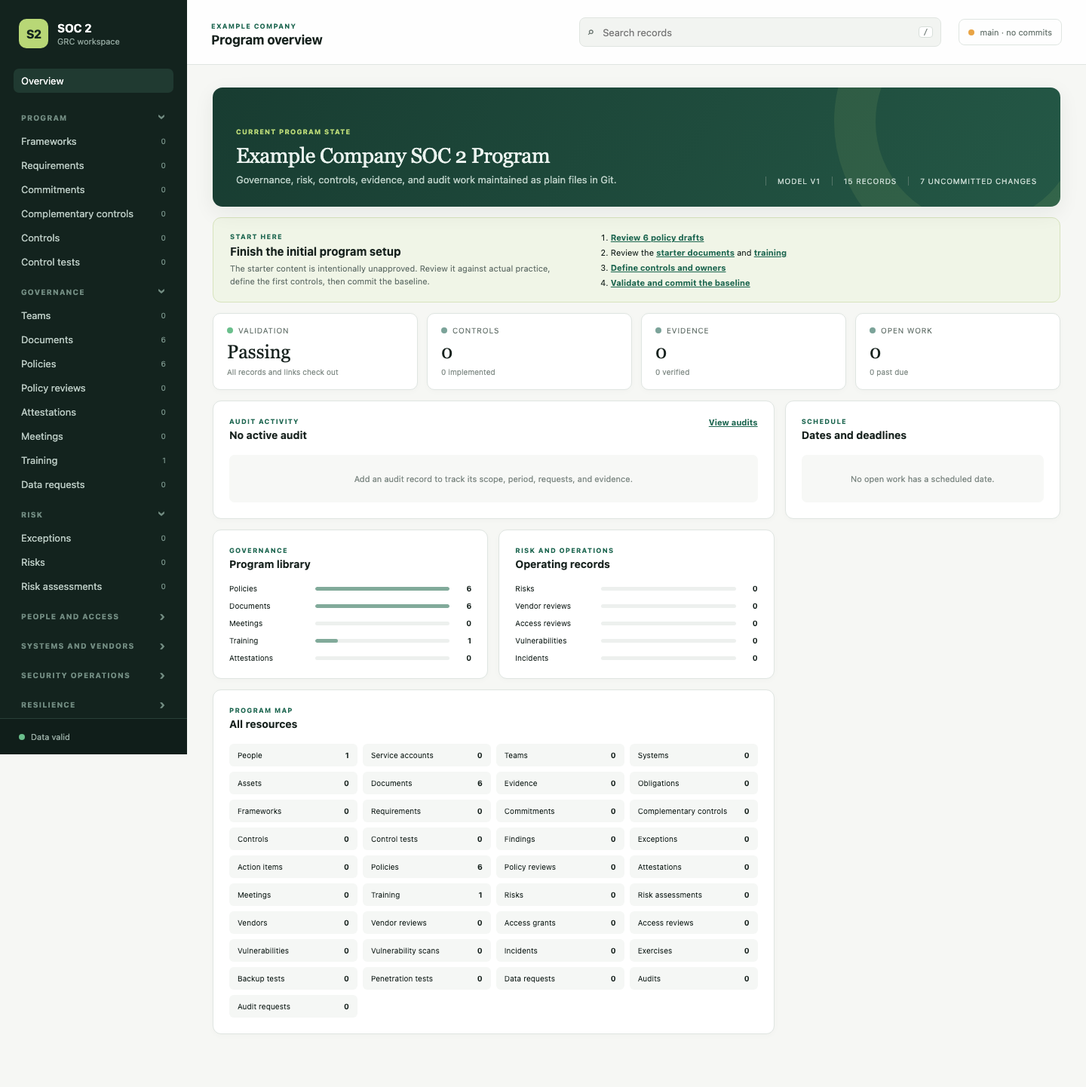
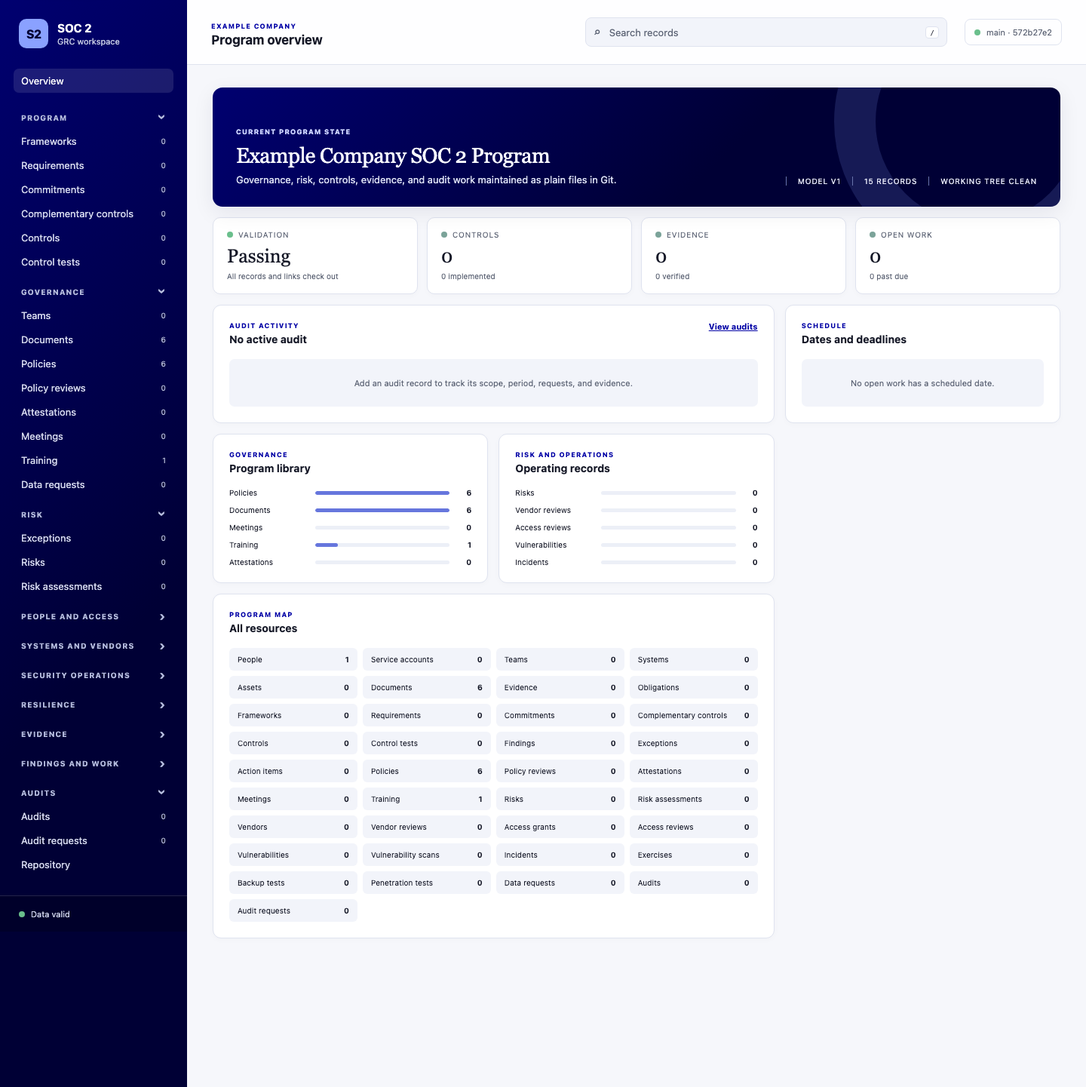
Add blue adaptive color theme

diff --git a/packages/soc2/src/web.js b/packages/soc2/src/web.js
@@ -9,7 +9,7 @@ export function renderIndex(state = null) {
 <head>
   <meta charset="utf-8">
   <meta name="viewport" content="width=device-width,initial-scale=1">
-  <meta name="color-scheme" content="light">
+  <meta name="color-scheme" content="light dark">
   <title>SOC 2 workspace</title>
   <link rel="stylesheet" href="./soc2.css">
 </head>
@@ -618,17 +618,88 @@ function esc(value) { return String(value ?? "").replace(/[&<>"']/g, (character)
 `;
 
 export const APP_STYLES = String.raw`
-:root{--ink:#17221e;--muted:#66736d;--line:#dfe5e1;--paper:#f6f7f4;--panel:#fff;--green:#1d6650;--green-2:#dfece6;--lime:#b8d776;--amber:#ad6b16;--red:#a44236;--sidebar:#13231e;--shadow:0 8px 28px rgba(21,40,33,.07);font-family:Inter,ui-sans-serif,system-ui,-apple-system,BlinkMacSystemFont,"Segoe UI",sans-serif;color:var(--ink);background:var(--paper);font-synthesis:none}
-*{box-sizing:border-box}body{margin:0;min-width:320px;background:var(--paper)}button,input,select,textarea{font:inherit}a{color:inherit}.skip-link{position:fixed;left:1rem;top:-4rem;z-index:100;padding:.7rem 1rem;background:#fff}.skip-link:focus{top:1rem}.loading,.fatal{padding:3rem}.shell{display:grid;grid-template-columns:248px 1fr;min-height:100vh}.sidebar{position:fixed;inset:0 auto 0 0;width:248px;background:var(--sidebar);color:#dce7e2;padding:25px 18px 18px;overflow:auto;z-index:20}.brand{display:flex;align-items:center;gap:12px;text-decoration:none;margin:0 7px 27px}.brand .mark{display:grid;place-items:center;width:39px;height:39px;border-radius:10px;background:var(--lime);color:#15271f;font-weight:800;letter-spacing:-.04em}.brand strong,.brand small{display:block}.brand strong{color:#fff;font-size:15px}.brand small{font-size:11px;color:#91a59d;margin-top:2px}.nav-home,.nav-items a{display:flex;justify-content:space-between;align-items:center;text-decoration:none;border-radius:7px;padding:8px 10px;font-size:13px;color:#b9c9c2}.nav-home{margin-bottom:9px}.nav-home:hover,.nav-items a:hover,.nav-home.current,.nav-items a.current{background:#203a31;color:#fff}.nav-heading{width:100%;border:0;background:none;color:#718b81;text-transform:uppercase;letter-spacing:.11em;font-size:10px;font-weight:750;display:flex;align-items:center;justify-content:space-between;padding:13px 10px 5px;cursor:pointer}.chevron{font-size:18px;transform:rotate(0);transition:.15s}.nav-group.open .chevron{transform:rotate(90deg)}.nav-items{display:none}.nav-group.open .nav-items{display:block}.nav-items small{font-size:10px;color:#769087}.side-foot{position:sticky;bottom:-18px;margin:25px -18px -18px;padding:17px 25px;background:#101e1a;border-top:1px solid #294038;color:#9cb0a8;font-size:11px;display:flex;align-items:center;gap:8px}.status-dot{width:8px;height:8px;border-radius:50%;background:#9aa39f;display:inline-block;flex:0 0 auto}.status-dot.good,.badge.good{background:#6abf8c}.status-dot.warn,.badge.warn{background:#e9a445}.status-dot.bad,.badge.bad{background:#dc6c5d}.status-dot.neutral{background:#7ba399}.workspace{grid-column:2;min-width:0}.topbar{height:86px;background:rgba(255,255,255,.88);backdrop-filter:blur(10px);border-bottom:1px solid var(--line);padding:0 32px;display:flex;align-items:center;gap:23px;position:sticky;top:0;z-index:10}.topbar>div:first-of-type{min-width:190px}.topbar h1{font-size:17px;line-height:1.1;margin:3px 0 0}.eyebrow,.kicker{color:var(--green);text-transform:uppercase;letter-spacing:.12em;font-weight:760;font-size:9px;margin:0}.search{height:39px;max-width:480px;flex:1;margin-left:auto;display:flex;align-items:center;gap:9px;background:#f2f4f1;border:1px solid #e0e5e1;border-radius:8px;padding:0 10px;color:#6f7a75}.search input{border:0;outline:0;background:none;min-width:0;flex:1;font-size:13px}.search kbd{background:#fff;border:1px solid #d8dfda;border-radius:4px;padding:1px 5px;font-size:10px}.repo-chip{display:flex;align-items:center;gap:8px;border:1px solid var(--line);border-radius:8px;padding:10px 12px;color:var(--muted);font-size:11px;white-space:nowrap}.mobile-nav{display:none}.page{padding:30px 34px 70px;max-width:1510px;margin:auto}.hero{color:#eaf2ee;background:linear-gradient(120deg,#183c31,#245846);border-radius:13px;padding:28px 31px;display:flex;justify-content:space-between;align-items:end;min-height:158px;box-shadow:var(--shadow);position:relative;overflow:hidden}.hero:after{content:"";position:absolute;width:270px;height:270px;border:55px solid rgba(184,215,118,.1);border-radius:50%;right:-80px;top:-145px}.hero .kicker{color:#b8d776}.hero h2{font-family:Georgia,serif;font-weight:500;font-size:28px;margin:10px 0 8px;letter-spacing:-.02em}.hero p:not(.kicker){margin:0;color:#b9cec5;font-size:13px;max-width:650px}.hero-meta{display:flex;gap:15px;position:relative;z-index:1}.hero-meta span{font-size:10px;text-transform:uppercase;letter-spacing:.08em;color:#c6d8d0;border-left:1px solid #547568;padding-left:15px}.metrics{display:grid;grid-template-columns:repeat(4,1fr);gap:12px;margin:14px 0}.metric{background:#fff;border:1px solid var(--line);border-radius:10px;padding:16px 18px;box-shadow:0 2px 8px rgba(21,40,33,.025)}.metric-label{font-size:10px;text-transform:uppercase;letter-spacing:.08em;color:var(--muted);display:flex;align-items:center;gap:7px}.metric>strong{display:block;font-family:Georgia,serif;font-size:25px;font-weight:500;margin:8px 0 2px}.metric>small{font-size:10px;color:#87918c}.dashboard-grid{display:grid;grid-template-columns:repeat(3,1fr);gap:14px}.panel{background:#fff;border:1px solid var(--line);border-radius:11px;padding:21px;min-width:0;box-shadow:0 2px 8px rgba(21,40,33,.025)}.span-2{grid-column:span 2}.panel-head{display:flex;align-items:start;justify-content:space-between;gap:15px;margin-bottom:18px}.panel-head h3{font-size:14px;margin:4px 0 0}.panel-head>a{font-size:11px;color:var(--green);font-weight:700}.audit-progress{display:grid;grid-template-columns:105px 1fr;gap:11px 20px;align-items:end}.progress-number strong{font-family:Georgia,serif;font-size:30px;font-weight:500;display:block}.progress-number span{font-size:10px;color:var(--muted)}.progress{height:9px;background:#e7ebe8;border-radius:9px;overflow:hidden}.progress span{display:block;height:100%;background:linear-gradient(90deg,#287259,var(--lime));border-radius:9px}.progress-meta{grid-column:2;display:flex;justify-content:space-between;font-size:9px;text-transform:uppercase;letter-spacing:.08em;color:#7d8983}.due-list{display:grid}.due-list a{display:grid;grid-template-columns:60px 1fr;text-decoration:none;border-top:1px solid #edf0ee;padding:10px 0;align-items:center}.due-list a:first-child{border:0;padding-top:0}.due-list time{font-size:10px;color:var(--green);font-weight:750}.due-list strong,.due-list small{display:block}.due-list strong{font-size:11px}.due-list small{font-size:9px;color:var(--muted);margin-top:3px}.resource-bars{display:grid;gap:11px}.resource-bars a{display:grid;grid-template-columns:105px 1fr 20px;gap:9px;align-items:center;text-decoration:none;font-size:10px}.resource-bars i{height:5px;background:#edf0ee;border-radius:5px;overflow:hidden}.resource-bars b{display:block;height:100%;background:#81aa9a;border-radius:5px}.resource-bars strong{text-align:right}.catalog{display:grid;grid-template-columns:repeat(4,1fr);gap:7px}.catalog a{display:flex;justify-content:space-between;text-decoration:none;padding:9px 11px;background:#f5f7f5;border-radius:6px;font-size:10px}.catalog a:hover{background:var(--green-2)}.page-intro{display:flex;justify-content:space-between;align-items:end;margin-bottom:25px}.page-intro h2,.detail-head h2{font-family:Georgia,serif;font-size:31px;font-weight:500;margin:7px 0}.page-intro p:not(.kicker){color:var(--muted);max-width:700px;font-size:13px;margin:0}.button{border:1px solid #ccd5d0;background:#fff;border-radius:7px;padding:9px 13px;cursor:pointer;font-size:12px;font-weight:650}.button.primary{background:var(--green);border-color:var(--green);color:#fff}.button.danger{color:var(--red)}.list-tools{display:flex;align-items:center;gap:10px;margin-bottom:12px}.list-tools label{flex:1}.list-tools input,.list-tools select{width:100%;border:1px solid var(--line);border-radius:7px;background:#fff;padding:10px 12px;font-size:12px}.list-tools select{width:auto}.list-tools>span{color:var(--muted);font-size:10px}.record-table-wrap{background:#fff;border:1px solid var(--line);border-radius:10px;overflow:auto}.record-table{width:100%;border-collapse:collapse;font-size:11px}.record-table th{background:#f5f7f5;text-align:left;text-transform:uppercase;letter-spacing:.08em;color:#75817b;font-size:9px;padding:11px 14px;border-bottom:1px solid var(--line)}.record-table td{padding:13px 14px;border-bottom:1px solid #edf0ee;vertical-align:top}.record-table tr:last-child td{border-bottom:0}.record-table code{font-size:9px;color:#64736c}.record-title{display:block;color:var(--ink);font-weight:700;text-decoration:none}.record-table td>small{display:block;color:#8a948f;margin-top:3px}.badge,.tag,.type-pill{display:inline-block;border-radius:99px;background:#edf1ee;padding:3px 7px;font-size:9px;text-transform:uppercase;letter-spacing:.05em;white-space:nowrap}.tag{text-transform:none;margin:1px}.badge.status-active,.badge.status-approved,.badge.status-complete,.badge.status-passed,.badge.status-accepted{background:#ddefe5;color:#176143}.badge.status-open,.badge.status-high,.badge.status-critical,.badge.status-failed{background:#f5ded9;color:#8d352c}.badge.status-draft,.badge.status-planned,.badge.status-in-progress,.badge.status-medium{background:#f7e9cf;color:#855717}.breadcrumbs{display:flex;gap:8px;color:var(--muted);font-size:11px;margin-bottom:20px}.detail-head{display:flex;justify-content:space-between;align-items:end;margin-bottom:22px}.detail-head h2{margin-bottom:4px}.detail-head>div>code{font-size:10px;color:var(--muted)}.actions{display:flex;gap:7px}.detail-grid{display:grid;grid-template-columns:minmax(0,2fr) minmax(270px,1fr);gap:14px}.detail-grid aside{display:grid;gap:14px;align-content:start}.detail-main{padding:29px}.content-label{color:#75817b;text-transform:uppercase;letter-spacing:.08em;font-size:9px;border-bottom:1px solid var(--line);padding-bottom:13px;margin-bottom:23px}.markdown{max-width:790px}.markdown h1{font-family:Georgia,serif;font-size:29px;font-weight:500}.markdown h2{font-family:Georgia,serif;font-size:23px;font-weight:500;margin-top:1.8em}.markdown h3{font-size:15px;margin-top:1.7em}.markdown p,.markdown li{font-size:13px;line-height:1.65;color:#38463f}.markdown code{background:#f1f3f1;border-radius:3px;padding:1px 4px}.markdown pre{padding:15px;background:#15241f;color:#dfe9e4;border-radius:7px;overflow:auto}.markdown blockquote{border-left:3px solid var(--lime);padding:4px 15px;color:var(--muted);margin-left:0}.table-wrap{overflow:auto}.markdown table{border-collapse:collapse;width:100%;font-size:11px}.markdown th,.markdown td{border:1px solid var(--line);padding:8px;text-align:left}.metadata{margin:0}.metadata>div{display:grid;grid-template-columns:105px 1fr;gap:10px;border-top:1px solid #edf0ee;padding:10px 0}.metadata>div:first-child{border-top:0;padding-top:0}.metadata dt{font-size:9px;text-transform:uppercase;letter-spacing:.06em;color:#7d8883}.metadata dd{margin:0;font-size:11px;min-width:0}.compact-json{white-space:pre-wrap;font-size:9px}.git-panel>code{font-size:9px;word-break:break-all}.git-panel p{font-size:10px;color:var(--muted)}.relation{color:var(--green);text-decoration:none}.history{display:grid}.history>div{display:grid;grid-template-columns:60px 1fr;gap:8px;padding:8px 0;border-top:1px solid #edf0ee}.history>div:first-child{border-top:0}.history code{font-size:9px;color:var(--green)}.history strong,.history small{display:block}.history strong{font-size:10px}.history small{font-size:9px;color:var(--muted);margin-top:2px}.empty{padding:25px;color:#7f8a85;text-align:center;font-size:11px;background:#f7f8f6;border-radius:7px}.changes{padding-left:18px}.changes li{margin:8px 0}.diagnostics>div{display:grid;grid-template-columns:58px minmax(120px,180px) minmax(0,1fr);gap:10px;align-items:start;border-top:1px solid var(--line);padding:10px 0}.diagnostics p{margin:0;font-size:11px;overflow-wrap:anywhere}.diagnostics code{font-size:9px;overflow-wrap:anywhere}.editor,.search-results{width:min(760px,calc(100vw - 30px));border:0;border-radius:12px;padding:0;box-shadow:0 25px 80px rgba(13,29,23,.28)}dialog::backdrop{background:rgba(8,20,16,.55)}.editor form,.search-results{padding:23px}.dialog-head{display:flex;justify-content:space-between;align-items:start}.dialog-head h2{font-family:Georgia,serif;font-weight:500;margin:5px 0 0}.icon-button{border:0;background:#eef1ef;width:32px;height:32px;border-radius:50%;font-size:22px;cursor:pointer}.editor form>p{font-size:11px;color:var(--muted)}.editor textarea{width:100%;height:440px;border:1px solid var(--line);border-radius:7px;background:#14231e;color:#dce8e2;padding:15px;font:11px/1.5 ui-monospace,SFMono-Regular,Menlo,monospace;tab-size:2}.dialog-actions{display:flex;justify-content:end;gap:8px;margin-top:14px}.dialog-error{color:var(--red);font-size:11px;min-height:18px;margin-top:7px}.result-list{display:grid;margin-top:17px;max-height:60vh;overflow:auto}.result-list a{display:block;text-decoration:none;padding:11px;border-top:1px solid var(--line)}.result-list strong,.result-list small{display:block}.result-list small{color:var(--muted);margin-top:3px}.muted{color:#929b96}.sr-only{position:absolute;width:1px;height:1px;padding:0;margin:-1px;overflow:hidden;clip:rect(0,0,0,0);white-space:nowrap;border:0}
+:root{--ink:#151827;--muted:#5d6475;--line:#dfe3ef;--paper:#f6f7fb;--panel:#fff;--accent:#0000a5;--accent-soft:#eef1ff;--accent-light:#8aa1ff;--focus:#0000e0;--amber:#8a5200;--red:#a13a31;--sidebar:linear-gradient(135deg,#000070 0%,#000035 60%);--primary-gradient:linear-gradient(135deg,#000070 0%,#000035 60%);--surface-soft:#f2f4fa;--surface-muted:#eceff7;--field:#fff;--field-readonly:#eef0f6;--code-bg:#10162b;--code-ink:#e8ebff;--shadow:0 8px 28px rgba(0,0,53,.08);color-scheme:light dark;font-family:Inter,ui-sans-serif,system-ui,-apple-system,BlinkMacSystemFont,"Segoe UI",sans-serif;color:var(--ink);background:var(--paper);font-synthesis:none}
+*{box-sizing:border-box}body{margin:0;min-width:320px;background:var(--paper)}button,input,select,textarea{font:inherit}a{color:inherit}.skip-link{position:fixed;left:1rem;top:-4rem;z-index:100;padding:.7rem 1rem;background:#fff}.skip-link:focus{top:1rem}.loading,.fatal{padding:3rem}.shell{display:grid;grid-template-columns:248px 1fr;min-height:100vh}.sidebar{position:fixed;inset:0 auto 0 0;width:248px;background:var(--sidebar);color:#eef1ff;padding:25px 18px 18px;overflow:auto;z-index:20}.brand{display:flex;align-items:center;gap:12px;text-decoration:none;margin:0 7px 27px}.brand .mark{display:grid;place-items:center;width:39px;height:39px;border-radius:10px;background:var(--accent-light);color:#000035;font-weight:800;letter-spacing:-.04em}.brand strong,.brand small{display:block}.brand strong{color:#fff;font-size:15px}.brand small{font-size:11px;color:#c5cae2;margin-top:2px}.nav-home,.nav-items a{display:flex;justify-content:space-between;align-items:center;text-decoration:none;border-radius:7px;padding:8px 10px;font-size:13px;color:#d5d9ed}.nav-home{margin-bottom:9px}.nav-home:hover,.nav-items a:hover,.nav-home.current,.nav-items a.current{background:#202066;color:#fff}.nav-heading{width:100%;border:0;background:none;color:#b4bbdc;text-transform:uppercase;letter-spacing:.11em;font-size:10px;font-weight:750;display:flex;align-items:center;justify-content:space-between;padding:13px 10px 5px;cursor:pointer}.chevron{font-size:18px;transform:rotate(0);transition:.15s}.nav-group.open .chevron{transform:rotate(90deg)}.nav-items{display:none}.nav-group.open .nav-items{display:block}.nav-items small{font-size:10px;color:#b8bed7}.side-foot{position:sticky;bottom:-18px;margin:25px -18px -18px;padding:17px 25px;background:#000024;border-top:1px solid #34345f;color:#cbd0e5;font-size:11px;display:flex;align-items:center;gap:8px}.status-dot{width:8px;height:8px;border-radius:50%;background:#9aa39f;display:inline-block;flex:0 0 auto}.status-dot.good,.badge.good{background:#6abf8c}.status-dot.warn,.badge.warn{background:#e9a445}.status-dot.bad,.badge.bad{background:#dc6c5d}.status-dot.neutral{background:#9aabff}.workspace{grid-column:2;min-width:0}.topbar{height:86px;background:rgba(255,255,255,.88);backdrop-filter:blur(10px);border-bottom:1px solid var(--line);padding:0 32px;display:flex;align-items:center;gap:23px;position:sticky;top:0;z-index:10}.topbar>div:first-of-type{min-width:190px}.topbar h1{font-size:17px;line-height:1.1;margin:3px 0 0}.eyebrow,.kicker{color:var(--accent);text-transform:uppercase;letter-spacing:.12em;font-weight:760;font-size:9px;margin:0}.search{height:39px;max-width:480px;flex:1;margin-left:auto;display:flex;align-items:center;gap:9px;background:#f2f4fa;border:1px solid #dfe3ef;border-radius:8px;padding:0 10px;color:#5d6475}.search input{border:0;outline:0;background:none;min-width:0;flex:1;font-size:13px}.search kbd{background:#fff;border:1px solid #dfe3ef;border-radius:4px;padding:1px 5px;font-size:10px}.repo-chip{display:flex;align-items:center;gap:8px;border:1px solid var(--line);border-radius:8px;padding:10px 12px;color:var(--muted);font-size:11px;white-space:nowrap}.mobile-nav{display:none}.page{padding:30px 34px 70px;max-width:1510px;margin:auto}.hero{color:#f8f9ff;background:linear-gradient(120deg,#000070,#000035);border-radius:13px;padding:28px 31px;display:flex;justify-content:space-between;align-items:end;min-height:158px;box-shadow:var(--shadow);position:relative;overflow:hidden}.hero:after{content:"";position:absolute;width:270px;height:270px;border:55px solid rgba(138,161,255,.1);border-radius:50%;right:-80px;top:-145px}.hero .kicker{color:#cbd3ff}.hero h2{font-family:Georgia,serif;font-weight:500;font-size:28px;margin:10px 0 8px;letter-spacing:-.02em}.hero p:not(.kicker){margin:0;color:#dde1f4;font-size:13px;max-width:650px}.hero-meta{display:flex;gap:15px;position:relative;z-index:1}.hero-meta span{font-size:10px;text-transform:uppercase;letter-spacing:.08em;color:#e6e8f7;border-left:1px solid #6874ab;padding-left:15px}.metrics{display:grid;grid-template-columns:repeat(4,1fr);gap:12px;margin:14px 0}.metric{background:#fff;border:1px solid var(--line);border-radius:10px;padding:16px 18px;box-shadow:0 2px 8px rgba(21,40,33,.025)}.metric-label{font-size:10px;text-transform:uppercase;letter-spacing:.08em;color:var(--muted);display:flex;align-items:center;gap:7px}.metric>strong{display:block;font-family:Georgia,serif;font-size:25px;font-weight:500;margin:8px 0 2px}.metric>small{font-size:10px;color:#697184}.dashboard-grid{display:grid;grid-template-columns:repeat(3,1fr);gap:14px}.panel{background:#fff;border:1px solid var(--line);border-radius:11px;padding:21px;min-width:0;box-shadow:0 2px 8px rgba(21,40,33,.025)}.span-2{grid-column:span 2}.panel-head{display:flex;align-items:start;justify-content:space-between;gap:15px;margin-bottom:18px}.panel-head h3{font-size:14px;margin:4px 0 0}.panel-head>a{font-size:11px;color:var(--accent);font-weight:700}.audit-progress{display:grid;grid-template-columns:105px 1fr;gap:11px 20px;align-items:end}.progress-number strong{font-family:Georgia,serif;font-size:30px;font-weight:500;display:block}.progress-number span{font-size:10px;color:var(--muted)}.progress{height:9px;background:#eceff7;border-radius:9px;overflow:hidden}.progress span{display:block;height:100%;background:linear-gradient(90deg,#0000a5,var(--accent-light));border-radius:9px}.progress-meta{grid-column:2;display:flex;justify-content:space-between;font-size:9px;text-transform:uppercase;letter-spacing:.08em;color:#5d6475}.due-list{display:grid}.due-list a{display:grid;grid-template-columns:60px 1fr;text-decoration:none;border-top:1px solid #e8ebf3;padding:10px 0;align-items:center}.due-list a:first-child{border:0;padding-top:0}.due-list time{font-size:10px;color:var(--accent);font-weight:750}.due-list strong,.due-list small{display:block}.due-list strong{font-size:11px}.due-list small{font-size:9px;color:var(--muted);margin-top:3px}.resource-bars{display:grid;gap:11px}.resource-bars a{display:grid;grid-template-columns:105px 1fr 20px;gap:9px;align-items:center;text-decoration:none;font-size:10px}.resource-bars i{height:5px;background:#e8ebf3;border-radius:5px;overflow:hidden}.resource-bars b{display:block;height:100%;background:#6676dd;border-radius:5px}.resource-bars strong{text-align:right}.catalog{display:grid;grid-template-columns:repeat(4,1fr);gap:7px}.catalog a{display:flex;justify-content:space-between;text-decoration:none;padding:9px 11px;background:#f2f4fa;border-radius:6px;font-size:10px}.catalog a:hover{background:var(--accent-soft)}.page-intro{display:flex;justify-content:space-between;align-items:end;margin-bottom:25px}.page-intro h2,.detail-head h2{font-family:Georgia,serif;font-size:31px;font-weight:500;margin:7px 0}.page-intro p:not(.kicker){color:var(--muted);max-width:700px;font-size:13px;margin:0}.button{border:1px solid #d0d5e3;background:#fff;border-radius:7px;padding:9px 13px;cursor:pointer;font-size:12px;font-weight:650}.button.primary{background:var(--accent);border-color:var(--accent);color:#fff}.button.danger{color:var(--red)}.list-tools{display:flex;align-items:center;gap:10px;margin-bottom:12px}.list-tools label{flex:1}.list-tools input,.list-tools select{width:100%;border:1px solid var(--line);border-radius:7px;background:#fff;padding:10px 12px;font-size:12px}.list-tools select{width:auto}.list-tools>span{color:var(--muted);font-size:10px}.record-table-wrap{background:#fff;border:1px solid var(--line);border-radius:10px;overflow:auto}.record-table{width:100%;border-collapse:collapse;font-size:11px}.record-table th{background:#f2f4fa;text-align:left;text-transform:uppercase;letter-spacing:.08em;color:#75817b;font-size:9px;padding:11px 14px;border-bottom:1px solid var(--line)}.record-table td{padding:13px 14px;border-bottom:1px solid #e8ebf3;vertical-align:top}.record-table tr:last-child td{border-bottom:0}.record-table code{font-size:9px;color:#5d6475}.record-title{display:block;color:var(--ink);font-weight:700;text-decoration:none}.record-table td>small{display:block;color:#6a7181;margin-top:3px}.badge,.tag,.type-pill{display:inline-block;border-radius:99px;background:#eceff7;padding:3px 7px;font-size:9px;text-transform:uppercase;letter-spacing:.05em;white-space:nowrap}.tag{text-transform:none;margin:1px}.badge.status-active,.badge.status-approved,.badge.status-complete,.badge.status-passed,.badge.status-accepted{background:#ddefe5;color:#176143}.badge.status-open,.badge.status-high,.badge.status-critical,.badge.status-failed{background:#f5ded9;color:#8d352c}.badge.status-draft,.badge.status-planned,.badge.status-in-progress,.badge.status-medium{background:#f7e9cf;color:#855717}.breadcrumbs{display:flex;gap:8px;color:var(--muted);font-size:11px;margin-bottom:20px}.detail-head{display:flex;justify-content:space-between;align-items:end;margin-bottom:22px}.detail-head h2{margin-bottom:4px}.detail-head>div>code{font-size:10px;color:var(--muted)}.actions{display:flex;gap:7px}.detail-grid{display:grid;grid-template-columns:minmax(0,2fr) minmax(270px,1fr);gap:14px}.detail-grid aside{display:grid;gap:14px;align-content:start}.detail-main{padding:29px}.content-label{color:#75817b;text-transform:uppercase;letter-spacing:.08em;font-size:9px;border-bottom:1px solid var(--line);padding-bottom:13px;margin-bottom:23px}.markdown{max-width:790px}.markdown h1{font-family:Georgia,serif;font-size:29px;font-weight:500}.markdown h2{font-family:Georgia,serif;font-size:23px;font-weight:500;margin-top:1.8em}.markdown h3{font-size:15px;margin-top:1.7em}.markdown p,.markdown li{font-size:13px;line-height:1.65;color:#272c3b}.markdown code{background:#eef0f6;border-radius:3px;padding:1px 4px}.markdown pre{padding:15px;background:#10162b;color:#e8ebff;border-radius:7px;overflow:auto}.markdown blockquote{border-left:3px solid var(--accent-light);padding:4px 15px;color:var(--muted);margin-left:0}.table-wrap{overflow:auto}.markdown table{border-collapse:collapse;width:100%;font-size:11px}.markdown th,.markdown td{border:1px solid var(--line);padding:8px;text-align:left}.metadata{margin:0}.metadata>div{display:grid;grid-template-columns:105px 1fr;gap:10px;border-top:1px solid #e8ebf3;padding:10px 0}.metadata>div:first-child{border-top:0;padding-top:0}.metadata dt{font-size:9px;text-transform:uppercase;letter-spacing:.06em;color:#5d6475}.metadata dd{margin:0;font-size:11px;min-width:0}.compact-json{white-space:pre-wrap;font-size:9px}.git-panel>code{font-size:9px;word-break:break-all}.git-panel p{font-size:10px;color:var(--muted)}.relation{color:var(--accent);text-decoration:none}.history{display:grid}.history>div{display:grid;grid-template-columns:60px 1fr;gap:8px;padding:8px 0;border-top:1px solid #e8ebf3}.history>div:first-child{border-top:0}.history code{font-size:9px;color:var(--accent)}.history strong,.history small{display:block}.history strong{font-size:10px}.history small{font-size:9px;color:var(--muted);margin-top:2px}.empty{padding:25px;color:#697184;text-align:center;font-size:11px;background:#f4f5fa;border-radius:7px}.changes{padding-left:18px}.changes li{margin:8px 0}.diagnostics>div{display:grid;grid-template-columns:58px minmax(120px,180px) minmax(0,1fr);gap:10px;align-items:start;border-top:1px solid var(--line);padding:10px 0}.diagnostics p{margin:0;font-size:11px;overflow-wrap:anywhere}.diagnostics code{font-size:9px;overflow-wrap:anywhere}.editor,.search-results{width:min(760px,calc(100vw - 30px));border:0;border-radius:12px;padding:0;box-shadow:0 25px 80px rgba(0,0,24,.28)}dialog::backdrop{background:rgba(0,0,24,.55)}.editor form,.search-results{padding:23px}.dialog-head{display:flex;justify-content:space-between;align-items:start}.dialog-head h2{font-family:Georgia,serif;font-weight:500;margin:5px 0 0}.icon-button{border:0;background:#eceff7;width:32px;height:32px;border-radius:50%;font-size:22px;cursor:pointer}.editor form>p{font-size:11px;color:var(--muted)}.editor textarea{width:100%;height:440px;border:1px solid var(--line);border-radius:7px;background:#10162b;color:#e8ebff;padding:15px;font:11px/1.5 ui-monospace,SFMono-Regular,Menlo,monospace;tab-size:2}.dialog-actions{display:flex;justify-content:end;gap:8px;margin-top:14px}.dialog-error{color:var(--red);font-size:11px;min-height:18px;margin-top:7px}.result-list{display:grid;margin-top:17px;max-height:60vh;overflow:auto}.result-list a{display:block;text-decoration:none;padding:11px;border-top:1px solid var(--line)}.result-list strong,.result-list small{display:block}.result-list small{color:var(--muted);margin-top:3px}.muted{color:#737a8b}.sr-only{position:absolute;width:1px;height:1px;padding:0;margin:-1px;overflow:hidden;clip:rect(0,0,0,0);white-space:nowrap;border:0}
 .icon-button{position:relative;display:grid;place-items:center;padding:0;color:var(--ink);font-size:0}.icon-button:before,.icon-button:after{content:"";position:absolute;width:13px;height:2px;border-radius:2px;background:currentColor;transform:rotate(45deg)}.icon-button:after{transform:rotate(-45deg)}
 html,body{height:100%;overflow:hidden}.shell{grid-template-columns:248px minmax(0,1fr);height:100vh;min-height:0}.sidebar{height:100vh;overflow-x:hidden;overflow-y:auto;overscroll-behavior:contain}.workspace{height:100vh;overflow-x:hidden;overflow-y:auto;overscroll-behavior:contain;-webkit-overflow-scrolling:touch}
 .nav-close,.nav-scrim{display:none}.pagination{display:flex;align-items:center;justify-content:center;gap:12px;margin-top:14px}.pagination[hidden]{display:none}.page-status{color:var(--muted);font-size:10px;min-width:150px;text-align:center}.button:disabled{cursor:not-allowed;opacity:.45}.search-pagination{padding-top:2px}
 .list-tools{flex-wrap:wrap}.list-tools label{min-width:220px}
-.setup-banner{margin:14px 0;background:#f0f5e7;border:1px solid #d7e3bd;border-radius:11px;padding:19px 22px;display:grid;grid-template-columns:1fr 1.3fr;gap:25px;align-items:center}.setup-banner h3{margin:5px 0 6px;font-size:15px}.setup-banner p:not(.kicker){margin:0;color:var(--muted);font-size:11px;line-height:1.5}.setup-banner ol{margin:0;padding-left:22px;display:grid;gap:7px}.setup-banner li{font-size:11px}.setup-banner a{color:var(--green);font-weight:700}.due-list time.overdue{color:var(--red)}.content-label{display:flex;align-items:center;justify-content:space-between;gap:12px}.text-button{border:0;background:none;color:var(--green);font-size:9px;text-transform:uppercase;letter-spacing:.06em;font-weight:750;cursor:pointer;white-space:nowrap}.tag{white-space:normal;overflow-wrap:anywhere;max-width:100%}.editor{max-height:calc(100vh - 30px);overflow:auto}.form-grid{display:grid;grid-template-columns:repeat(2,minmax(0,1fr));gap:14px;margin:20px 0}.form-field>.field-label,.content-editor-field>span{display:flex;align-items:center;justify-content:space-between;gap:8px;color:#53615a;font-size:10px;font-weight:700;margin-bottom:6px}.required-mark{font-size:8px;color:var(--green);text-transform:uppercase;letter-spacing:.06em}.form-field input,.form-field select,.editor .form-field textarea{width:100%;height:auto;min-height:40px;border:1px solid var(--line);border-radius:7px;background:#fff;color:var(--ink);padding:9px 10px;font:12px/1.4 inherit}.editor .form-field textarea{height:82px}.form-field input[readonly]{background:#f1f3f1;color:#69756f}.form-field>small{display:block;color:#85908b;font-size:9px;margin-top:5px}.checkbox-list{display:grid;gap:5px;max-height:145px;overflow:auto;border:1px solid var(--line);border-radius:7px;padding:7px}.checkbox-list label{display:flex;align-items:center;gap:8px;padding:5px;border-radius:5px}.checkbox-list input{width:16px;min-height:16px;padding:0;flex:0 0 auto}.checkbox-list label:hover{background:#f4f6f4}.checkbox-list span,.checkbox-list small{display:block;font-size:10px}.checkbox-list small{color:var(--muted);margin-top:2px}.missing-options{padding:11px;border:1px dashed #d7c8a9;background:#fbf5e9;color:#795b23;border-radius:7px;font-size:10px}.content-editor-field{display:block;margin:17px 0}.editor .content-editor-field textarea,.editor .markdown-source{height:260px;background:#14231e;color:#dce8e2;font:11px/1.5 ui-monospace,SFMono-Regular,Menlo,monospace}.advanced-editor{border-top:1px solid var(--line);margin-top:18px;padding-top:13px}.advanced-editor summary{cursor:pointer;color:var(--green);font-size:11px;font-weight:750}.advanced-editor p{font-size:10px;color:var(--muted)}.editor .advanced-editor>textarea{height:320px}.alert-dialog{width:min(520px,calc(100vw - 30px));border:0;border-radius:12px;padding:23px;box-shadow:0 25px 80px rgba(13,29,23,.28)}.alert-dialog>p{font-size:12px;line-height:1.55;color:var(--muted)}.metadata dd{overflow-wrap:anywhere}
+.setup-banner{margin:14px 0;background:#eef1ff;border:1px solid #ccd4ff;border-radius:11px;padding:19px 22px;display:grid;grid-template-columns:1fr 1.3fr;gap:25px;align-items:center}.setup-banner h3{margin:5px 0 6px;font-size:15px}.setup-banner p:not(.kicker){margin:0;color:var(--muted);font-size:11px;line-height:1.5}.setup-banner ol{margin:0;padding-left:22px;display:grid;gap:7px}.setup-banner li{font-size:11px}.setup-banner a{color:var(--accent);font-weight:700}.due-list time.overdue{color:var(--red)}.content-label{display:flex;align-items:center;justify-content:space-between;gap:12px}.text-button{border:0;background:none;color:var(--accent);font-size:9px;text-transform:uppercase;letter-spacing:.06em;font-weight:750;cursor:pointer;white-space:nowrap}.tag{white-space:normal;overflow-wrap:anywhere;max-width:100%}.editor{max-height:calc(100vh - 30px);overflow:auto}.form-grid{display:grid;grid-template-columns:repeat(2,minmax(0,1fr));gap:14px;margin:20px 0}.form-field>.field-label,.content-editor-field>span{display:flex;align-items:center;justify-content:space-between;gap:8px;color:#3e4557;font-size:10px;font-weight:700;margin-bottom:6px}.required-mark{font-size:8px;color:var(--accent);text-transform:uppercase;letter-spacing:.06em}.form-field input,.form-field select,.editor .form-field textarea{width:100%;height:auto;min-height:40px;border:1px solid var(--line);border-radius:7px;background:#fff;color:var(--ink);padding:9px 10px;font:12px/1.4 inherit}.editor .form-field textarea{height:82px}.form-field input[readonly]{background:#eef0f6;color:#5d6475}.form-field>small{display:block;color:#6a7181;font-size:9px;margin-top:5px}.checkbox-list{display:grid;gap:5px;max-height:145px;overflow:auto;border:1px solid var(--line);border-radius:7px;padding:7px}.checkbox-list label{display:flex;align-items:center;gap:8px;padding:5px;border-radius:5px}.checkbox-list input{width:16px;min-height:16px;padding:0;flex:0 0 auto}.checkbox-list label:hover{background:#f2f4fa}.checkbox-list span,.checkbox-list small{display:block;font-size:10px}.checkbox-list small{color:var(--muted);margin-top:2px}.missing-options{padding:11px;border:1px dashed #d7c8a9;background:#fbf5e9;color:#795b23;border-radius:7px;font-size:10px}.content-editor-field{display:block;margin:17px 0}.editor .content-editor-field textarea,.editor .markdown-source{height:260px;background:#10162b;color:#e8ebff;font:11px/1.5 ui-monospace,SFMono-Regular,Menlo,monospace}.advanced-editor{border-top:1px solid var(--line);margin-top:18px;padding-top:13px}.advanced-editor summary{cursor:pointer;color:var(--accent);font-size:11px;font-weight:750}.advanced-editor p{font-size:10px;color:var(--muted)}.editor .advanced-editor>textarea{height:320px}.alert-dialog{width:min(520px,calc(100vw - 30px));border:0;border-radius:12px;padding:23px;box-shadow:0 25px 80px rgba(0,0,24,.28)}.alert-dialog>p{font-size:12px;line-height:1.55;color:var(--muted)}.metadata dd{overflow-wrap:anywhere}
 @media(max-width:1100px){.metrics{grid-template-columns:repeat(2,1fr)}.dashboard-grid{grid-template-columns:repeat(2,1fr)}.catalog{grid-template-columns:repeat(3,1fr)}.span-2{grid-column:span 2}.repo-chip{display:none}}
 @media(max-width:760px){.shell{display:block}.sidebar{transform:translateX(-100%);transition:.2s;box-shadow:8px 0 30px rgba(0,0,0,.2)}.sidebar.shown{transform:translateX(0)}.workspace{min-width:0}.mobile-nav{display:block;border:0;background:none;font-size:20px}.topbar{height:72px;padding:0 16px}.topbar>div:first-of-type{min-width:0}.search{max-width:none}.search kbd,.topbar .eyebrow{display:none}.page{padding:20px 15px 60px}.hero{display:block;padding:23px}.hero-meta{margin-top:22px;flex-wrap:wrap}.metrics,.dashboard-grid{grid-template-columns:1fr}.span-2{grid-column:auto}.catalog{grid-template-columns:repeat(2,1fr)}.detail-grid{grid-template-columns:1fr}.page-intro,.detail-head{display:block}.page-intro>.button,.actions{margin-top:15px}.record-table{min-width:720px}}
 @media(max-width:760px){.setup-banner{grid-template-columns:1fr}.form-grid{grid-template-columns:1fr}.record-table{min-width:0}.record-table thead{display:none}.record-table,.record-table tbody,.record-table tr{display:block}.record-table tr{padding:8px 12px;border-bottom:1px solid var(--line)}.record-table tr:last-child{border-bottom:0}.record-table td:not([data-label]){display:block}.record-table td[data-label]{display:grid;grid-template-columns:105px minmax(0,1fr);gap:10px;border:0;padding:7px 0;align-items:start}.record-table td[data-label]::before{content:attr(data-label);color:#75817b;text-transform:uppercase;letter-spacing:.07em;font-size:8px;font-weight:700}.record-table td[data-label="Title"]{display:block;padding:8px 0 10px}.record-table td[data-label="Title"]::before{display:none}.content-label{align-items:flex-start}.editor form{padding:18px}.diagnostics>div{grid-template-columns:58px minmax(0,1fr)}.diagnostics p{grid-column:1/-1}.changes code{overflow-wrap:anywhere}}
-@media(max-width:760px){.sidebar{visibility:hidden;transition:transform .2s,visibility 0s .2s}.sidebar.shown{visibility:visible;transition-delay:0s}.nav-close{display:grid;place-items:center;position:absolute;top:25px;right:18px;width:34px;height:34px;border:1px solid #365047;border-radius:50%;background:#1b3029;color:#dce7e2;font-size:20px;cursor:pointer}.nav-scrim{display:block;position:fixed;inset:0;border:0;background:rgba(8,20,16,.38);opacity:0;pointer-events:none;transition:opacity .2s;z-index:15}.sidebar.shown+.nav-scrim{opacity:1;pointer-events:auto}.pagination{justify-content:space-between;gap:8px}.page-status{min-width:0}}
+@media(max-width:760px){.sidebar{visibility:hidden;transition:transform .2s,visibility 0s .2s}.sidebar.shown{visibility:visible;transition-delay:0s}.nav-close{display:grid;place-items:center;position:absolute;top:25px;right:18px;width:34px;height:34px;border:1px solid #5966a4;border-radius:50%;background:#11174a;color:#eef1ff;font-size:20px;cursor:pointer}.nav-scrim{display:block;position:fixed;inset:0;border:0;background:rgba(0,0,24,.38);opacity:0;pointer-events:none;transition:opacity .2s;z-index:15}.sidebar.shown+.nav-scrim{opacity:1;pointer-events:auto}.pagination{justify-content:space-between;gap:8px}.page-status{min-width:0}}
+
+body,button,input,select,textarea,dialog{color:var(--ink)}
+button,input,select,textarea{accent-color:var(--accent)}
+:focus-visible{outline:3px solid var(--focus);outline-offset:2px}
+::selection{background:var(--accent-light);color:#000035}
+.skip-link{background:var(--panel);color:var(--ink);box-shadow:var(--shadow)}
+.sidebar{background:var(--sidebar);color:#eef1ff}
+.brand .mark{background:var(--accent-light);color:#000035}
+.brand small{color:#c5cae2}
+.nav-home,.nav-items a{color:#d5d9ed}
+.nav-home:hover,.nav-items a:hover,.nav-home.current,.nav-items a.current{background:rgba(255,255,255,.11);color:#fff}
+.nav-heading{color:#b4bbdc}
+.nav-items small{color:#b8bed7}
+.side-foot{background:rgba(0,0,24,.36);border-color:rgba(255,255,255,.14);color:#cbd0e5}
+.topbar{background:rgba(255,255,255,.9)}
+.search{background:var(--surface-soft);border-color:var(--line);color:var(--muted)}
+.search kbd{background:var(--panel);border-color:var(--line);color:var(--ink)}
+.hero{color:#f8f9ff;background:var(--primary-gradient)}
+.hero:after{border-color:rgba(138,161,255,.16)}
+.hero .kicker{color:#cbd3ff}
+.hero p:not(.kicker){color:#dde1f4}
+.hero-meta span{color:#e6e8f7;border-color:#6874ab}
+.metric,.panel,.record-table-wrap{background:var(--panel)}
+.metric>small,.progress-meta,.content-label,.record-table th,.record-table code,.record-table td>small,.metadata dt{color:var(--muted)}
+.progress,.resource-bars i{background:var(--surface-muted)}
+.progress span{background:linear-gradient(90deg,#0000a5,var(--accent-light))}
+.due-list a,.record-table td,.metadata>div,.history>div,.diagnostics>div,.result-list a{border-color:var(--line)}
+.resource-bars b{background:#6676dd}
+.catalog a,.record-table th,.empty{background:var(--surface-soft)}
+.catalog a:hover{background:var(--accent-soft)}
+.button{background:var(--panel);border-color:var(--line);color:var(--ink)}
+.button.primary{background:var(--primary-gradient);border-color:#000070;color:#fff}
+.button.primary:hover{filter:brightness(1.18)}
+.list-tools input,.list-tools select,.form-field input,.form-field select,.editor .form-field textarea{background:var(--field);border-color:var(--line);color:var(--ink)}
+input::placeholder,textarea::placeholder{color:var(--muted);opacity:1}
+.badge,.tag,.type-pill,.markdown code,.icon-button{background:var(--surface-muted)}
+.badge.good{background:#dcefe4;color:#125733}
+.badge.warn{background:#f6e8c9;color:#79500f}
+.badge.bad{background:#f7dfdc;color:#873027}
+.badge.status-active,.badge.status-approved,.badge.status-complete,.badge.status-passed,.badge.status-accepted{background:#dcefe4;color:#125733}
+.badge.status-open,.badge.status-high,.badge.status-critical,.badge.status-failed{background:#f7dfdc;color:#873027}
+.badge.status-draft,.badge.status-planned,.badge.status-in-progress,.badge.status-medium{background:#f6e8c9;color:#79500f}
+.markdown p,.markdown li{color:var(--ink)}
+.markdown pre,.editor textarea,.editor .content-editor-field textarea,.editor .markdown-source{background:var(--code-bg);color:var(--code-ink)}
+.markdown blockquote{border-color:var(--accent-light)}
+.empty{color:var(--muted)}
+.editor,.search-results,.alert-dialog{background:var(--panel);color:var(--ink);box-shadow:var(--shadow)}
+dialog::backdrop{background:rgba(0,0,24,.62)}
+.muted,.form-field>small{color:var(--muted)}
+.setup-banner{background:var(--accent-soft);border-color:#ccd4ff}
+.form-field>.field-label,.content-editor-field>span{color:var(--ink)}
+.form-field input[readonly]{background:var(--field-readonly);color:var(--muted)}
+.checkbox-list{border-color:var(--line)}
+.checkbox-list label:hover{background:var(--surface-soft)}
+.missing-options{border-color:#d5ad55;background:#fff7dc;color:#6d4707}
+.nav-close{border-color:rgba(255,255,255,.28);background:rgba(255,255,255,.1);color:#fff}
+.nav-scrim{background:rgba(0,0,24,.52)}
+.record-table td[data-label]::before{color:var(--muted)}
+
+@media(prefers-color-scheme:dark){
+  :root{--ink:#f4f5ff;--muted:#b8bfd3;--line:#343d5c;--paper:#0b1020;--panel:#141a2e;--accent:#aab7ff;--accent-soft:#252e52;--accent-light:#9aabff;--focus:#bdc7ff;--amber:#ffd08a;--red:#ffaaa0;--surface-soft:#1b2238;--surface-muted:#252d48;--field:#11172a;--field-readonly:#1c2338;--shadow:0 12px 34px rgba(0,0,0,.3)}
+  .topbar{background:rgba(11,16,32,.9)}
+  .badge.good{background:#173b2b;color:#a8edc4}
+  .badge.warn{background:#483714;color:#ffd991}
+  .badge.bad{background:#4a252a;color:#ffb5ad}
+  .badge.status-active,.badge.status-approved,.badge.status-complete,.badge.status-passed,.badge.status-accepted{background:#173b2b;color:#a8edc4}
+  .badge.status-open,.badge.status-high,.badge.status-critical,.badge.status-failed{background:#4a252a;color:#ffb5ad}
+  .badge.status-draft,.badge.status-planned,.badge.status-in-progress,.badge.status-medium{background:#483714;color:#ffd991}
+  .missing-options{border-color:#77612f;background:#382f19;color:#ffdc92}
+  .status-dot.neutral{background:#9aabff}
+}
 `;
 
 function safeJson(value) {

diff --git a/packages/soc2/test/render.test.js b/packages/soc2/test/render.test.js
@@ -228,6 +228,14 @@ test("centers modal close icons without relying on font metrics", () => {
   assert.match(APP_STYLES, /\.icon-button:before,\.icon-button:after\{content:"";position:absolute;width:13px;height:2px;/);
 });
 
+test("uses the shared blue gradient and follows the browser color scheme", () => {
+  assert.match(renderIndex(), /<meta name="color-scheme" content="light dark">/);
+  assert.match(APP_STYLES, /--primary-gradient:linear-gradient\(135deg,#000070 0%,#000035 60%\)/);
+  assert.match(APP_STYLES, /\.sidebar\{background:var\(--sidebar\);color:#eef1ff\}/);
+  assert.match(APP_STYLES, /\.button\.primary\{background:var\(--primary-gradient\);border-color:#000070;color:#fff\}/);
+  assert.match(APP_STYLES, /@media\(prefers-color-scheme:dark\)/);
+});
+
 test("paginates large result sets and makes the mobile drawer modal", () => {
   assert.match(APP_SCRIPT, /const LIST_PAGE_SIZE = 25/);
   assert.match(APP_SCRIPT, /const SEARCH_PAGE_SIZE = 25/);
